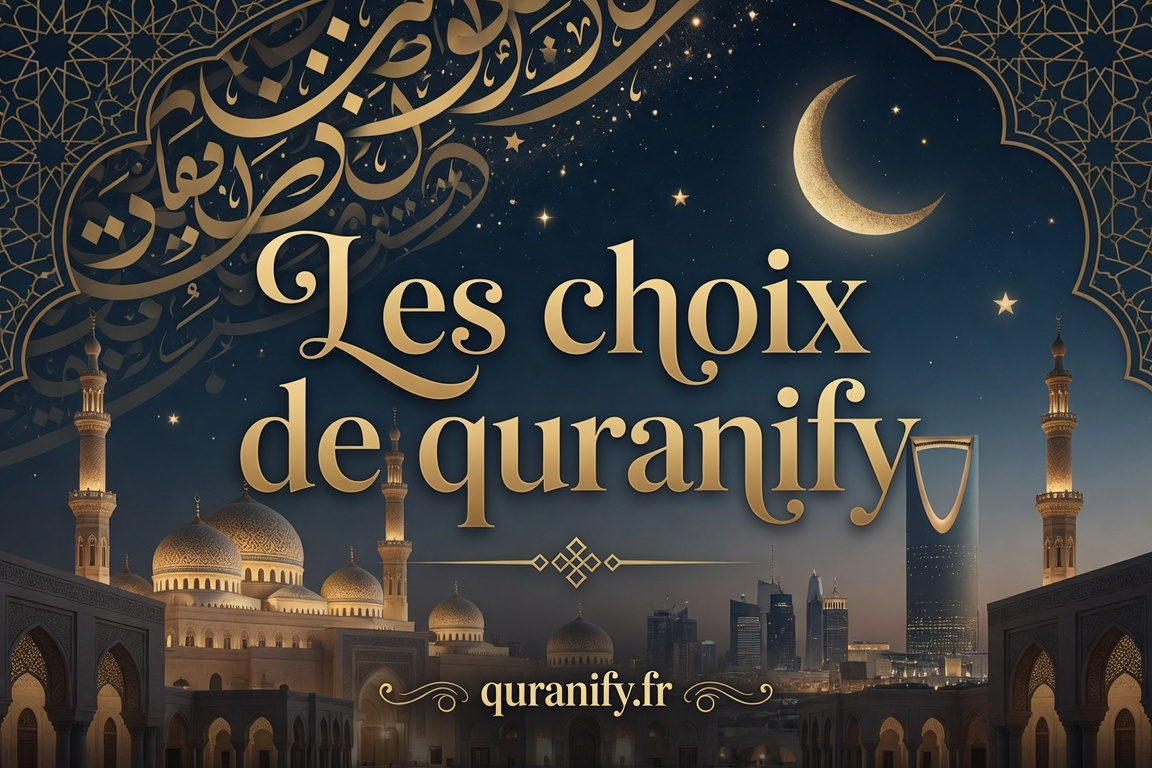
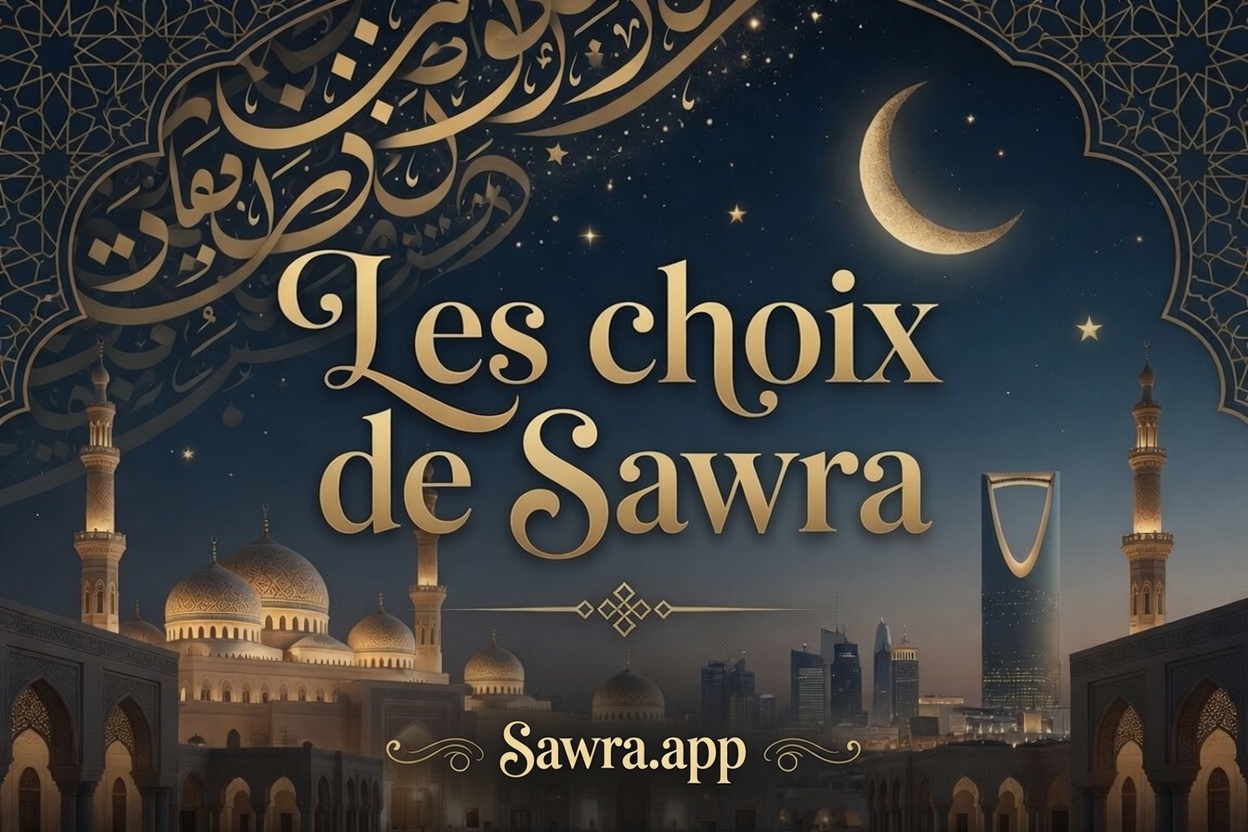
Rebrand en Sawra: UI, SEO, hero, categorie Choix Sawra et icone PWA

diff --git a/src/App.tsx b/src/App.tsx
@@ -335,11 +335,11 @@ const LoadingHome: React.FC<{ progress: number; reciterCount: number }> = ({ pro
         <div className="flex flex-col items-center gap-4">
           <img
             src="/icons/sansfond.png"
-            alt="Quranify"
+            alt="Sawra"
             className="w-32 h-32 object-contain drop-shadow-[0_0_24px_rgba(0,0,0,0.45)]"
           />
           <div>
-            <h1 className="text-3xl font-black tracking-tight text-[#f6f8fb] m-0">QURANIFY</h1>
+            <h1 className="text-3xl font-black tracking-tight text-[#f6f8fb] m-0">SAWRA</h1>
             <p className="text-[11px] tracking-[0.22em] text-[#b4c0ce] font-bold uppercase mt-1">
               Lecteur Coranique Premium
             </p>
@@ -608,7 +608,7 @@ const AppContent: React.FC = () => {
       if (tab) {
         setActiveTab(mapLegacyTab(tab));
       }
-      if (url.protocol === 'quranify:' || url.pathname.includes('/surah')) {
+      if (url.protocol === 'sawra:' || url.protocol === 'quranify:' || url.pathname.includes('/surah')) {
         setActiveTab('listen');
       }
     } catch {
@@ -624,6 +624,7 @@ const AppContent: React.FC = () => {
         rawUrl.includes('tab=surahs') ||
         rawUrl.includes('tab=reciters') ||
         rawUrl.includes('tab=listen') ||
+        rawUrl.includes('sawra://surah') ||
         rawUrl.includes('quranify://surah')
       ) {
         setActiveTab('listen');
@@ -729,7 +730,7 @@ const AppContent: React.FC = () => {
   const dismissAuthPrompt = () => {
     setShowAuthPrompt(false);
     try {
-      sessionStorage.setItem('quranify_auth_prompt_dismissed', '1');
+      sessionStorage.setItem('sawra_auth_prompt_dismissed', '1');
     } catch {
       // ignore
     }
@@ -745,7 +746,10 @@ const AppContent: React.FC = () => {
   useEffect(() => {
     if (authLoading || user || showLoadingHome || authPromptShownRef.current) return;
     try {
-      if (sessionStorage.getItem('quranify_auth_prompt_dismissed') === '1') return;
+      if (
+        sessionStorage.getItem('sawra_auth_prompt_dismissed') === '1' ||
+        sessionStorage.getItem('quranify_auth_prompt_dismissed') === '1'
+      ) return;
     } catch {
       // ignore
     }
@@ -942,7 +946,7 @@ const AppContent: React.FC = () => {
         onConnect={openAuthFromPrompt}
       />
       {/* Brand lives in the floating Navbar; keep an accessible page title */}
-      <h1 className="sr-only">Quranify — Lecteur Coranique Premium</h1>
+      <h1 className="sr-only">Sawra — Lecteur Coranique Premium</h1>
 
       {/* 2. Main Tab Views */}
       <main
@@ -980,18 +984,18 @@ const AppContent: React.FC = () => {
               <div className="relative z-10 flex flex-col gap-5 px-4 py-5 sm:px-6 sm:py-6 md:px-10 md:py-10">
                 <div className="flex items-start justify-between gap-4">
                   <div className="min-w-0 max-w-[16rem] sm:max-w-sm">
-                    <p
-                      className="font-serif text-sm sm:text-lg text-[#f1d4c1]/90 arabic-text leading-none select-none"
-                      dir="rtl"
-                    >
-                      القرآن الكريم
+                    <p className="inline-flex items-center rounded-full border border-[#f0d1bc]/20 bg-[#f0d1bc]/8 px-3 py-1 text-[10px] font-black uppercase tracking-[0.22em] text-[#f1d4c1]/90 select-none">
+                      Sawra Audio
                     </p>
                     <h2 className="mt-2 text-[1.75rem] sm:text-[2.2rem] md:text-[3.4rem] font-black tracking-tight text-white leading-[1.02]">
-                      Une écoute
-                      <span className="block text-[#f1d4c1]">paisible et claire.</span>
+                      Le Coran,
+                      <span className="block text-[#f1d4c1]">simplement.</span>
                     </h2>
                     <p className="mt-3 text-[13px] sm:text-[14px] md:text-[15px] leading-relaxed text-[#d0d9e3]/78">
-                      Reprenez instantanément votre récitation, explorez de belles voix et gardez vos repères sur mobile.
+                      Reprenez votre lecture, trouvez une belle voix et restez concentré sur l'essentiel.
+                    </p>
+                    <p className="mt-3 inline-flex items-center rounded-full border border-[#f0d1bc]/18 bg-[#111d2d]/70 px-3 py-1.5 text-[11px] font-bold text-[#f1d4c1] shadow-[inset_0_1px_0_rgba(255,255,255,0.03)]">
+                      100% gratuit. Sans pub.
                     </p>
                   </div>
 

diff --git a/index.html b/index.html
@@ -6,10 +6,10 @@
     <meta name="theme-color" content="#020617" />
     <meta name="color-scheme" content="dark" />
 
-    <title>Quranify - Lecteur Coranique Premium</title>
-    <meta name="description" content="Quranify est un lecteur coranique mobile-first pour écouter les grands récitateurs du Coran en streaming, gérer vos favoris et reprendre l'écoute facilement." />
-    <meta name="keywords" content="Coran audio, Quran, récitateurs, Quranify, Mishary Al Afasi, Soudais, Maher Al Meaqli, Minshawi, Hussary, streaming coranique" />
-    <meta name="author" content="Quranify" />
+    <title>Sawra - Lecteur Coranique Premium</title>
+    <meta name="description" content="Sawra est un lecteur coranique mobile-first pour écouter les grands récitateurs du Coran en streaming, gérer vos favoris et reprendre l'écoute facilement." />
+    <meta name="keywords" content="Coran audio, Quran, récitateurs, Sawra, Mishary Al Afasi, Soudais, Maher Al Meaqli, Minshawi, Hussary, streaming coranique" />
+    <meta name="author" content="Sawra" />
     <meta name="robots" content="index, follow, max-image-preview:large" />
 
     <link rel="manifest" href="/site.webmanifest" />
@@ -20,24 +20,25 @@
     <link rel="mask-icon" href="/safari-pinned-tab.svg" color="#7a919f" />
     <meta name="apple-mobile-web-app-capable" content="yes" />
     <meta name="apple-mobile-web-app-status-bar-style" content="black-translucent" />
-    <meta name="apple-mobile-web-app-title" content="Quranify" />
+    <meta name="apple-mobile-web-app-title" content="Sawra" />
     <meta name="mobile-web-app-capable" content="yes" />
-    <meta name="application-name" content="Quranify" />
+    <meta name="application-name" content="Sawra" />
     <meta name="msapplication-TileColor" content="#020617" />
     <meta name="msapplication-config" content="/browserconfig.xml" />
 
     <meta property="og:type" content="website" />
-    <meta property="og:site_name" content="Quranify" />
-    <meta property="og:title" content="Quranify - Lecteur Coranique Premium" />
+    <meta property="og:site_name" content="Sawra" />
+    <meta property="og:title" content="Sawra - Lecteur Coranique Premium" />
     <meta property="og:description" content="Écoutez les grands récitateurs du Coran dans une application mobile-first rapide, installable et pensée pour le streaming audio." />
+    <meta property="og:url" content="https://sawra.app" />
     <meta property="og:image" content="/og-image.png" />
     <meta property="og:image:width" content="1200" />
     <meta property="og:image:height" content="630" />
-    <meta property="og:image:alt" content="Quranify, lecteur coranique premium" />
+    <meta property="og:image:alt" content="Sawra, lecteur coranique premium" />
     <meta property="og:locale" content="fr_FR" />
 
     <meta name="twitter:card" content="summary_large_image" />
-    <meta name="twitter:title" content="Quranify - Lecteur Coranique Premium" />
+    <meta name="twitter:title" content="Sawra - Lecteur Coranique Premium" />
     <meta name="twitter:description" content="Application PWA pour écouter les récitateurs du Coran, sauvegarder vos favoris et reprendre l'écoute facilement." />
     <meta name="twitter:image" content="/og-image.png" />
 
@@ -49,7 +50,8 @@
       {
         "@context": "https://schema.org",
         "@type": "SoftwareApplication",
-        "name": "Quranify",
+        "name": "Sawra",
+        "url": "https://sawra.app",
         "applicationCategory": "MultimediaApplication",
         "operatingSystem": "Web, Android, iOS",
         "inLanguage": "fr",
@@ -63,7 +65,7 @@
     </script>
   </head>
   <body class="bg-slate-950">
-    <noscript>Quranify nécessite JavaScript pour charger le lecteur coranique.</noscript>
+    <noscript>Sawra nécessite JavaScript pour charger le lecteur coranique.</noscript>
     <div id="root"></div>
     <script type="module" src="/src/main.tsx"></script>
   </body>

diff --git a/src/components/AboutPanel.tsx b/src/components/AboutPanel.tsx
@@ -81,7 +81,7 @@ export const AboutPanel: React.FC = () => {
     {
       icon: Cloud,
       title: 'Compte GoMuslimLife',
-      body: 'Un seul compte pour Quranify et GoMuslimLife.com : favoris, reprise d’écoute et préférences synchronisés.',
+      body: 'Un seul compte pour Sawra et GoMuslimLife.com : favoris, reprise d’écoute et préférences synchronisés.',
     },
     {
       icon: Smartphone,
@@ -110,7 +110,7 @@ export const AboutPanel: React.FC = () => {
             <div>
               <div className="flex items-center gap-2">
                 <Compass className="w-4 h-4 text-[#f0d1bc]" />
-                <h2 className="text-xl font-bold text-[#f6f8fb]">À propos de Quranify</h2>
+                <h2 className="text-xl font-bold text-[#f6f8fb]">À propos de Sawra</h2>
               </div>
               <p className="mt-1 text-sm leading-relaxed text-[#b4c0ce]">
                 Lecteur coranique simple et rapide — web &amp; bientôt en app.
@@ -227,7 +227,7 @@ export const AboutPanel: React.FC = () => {
       </div>
 
       <div className="flex items-center justify-between text-[11px] text-[#95a7ba] gap-3 flex-wrap px-1">
-        <span>Quranify © {new Date().getFullYear()} · v{APP_VERSION}</span>
+        <span>Sawra © {new Date().getFullYear()} · v{APP_VERSION}</span>
         <a
           href="https://sofianeweb.fr"
           target="_blank"

diff --git a/public/offline.html b/public/offline.html
@@ -4,7 +4,7 @@
     <meta charset="UTF-8" />
     <meta name="viewport" content="width=device-width, initial-scale=1.0, viewport-fit=cover" />
     <meta name="theme-color" content="#020617" />
-    <title>Quranify - Hors ligne</title>
+    <title>Sawra - Hors ligne</title>
     <style>
       :root {
         color-scheme: dark;
@@ -55,9 +55,9 @@
   </head>
   <body>
     <main>
-      <img src="/icons/android-chrome-192x192.png" alt="Quranify" />
+      <img src="/icons/android-chrome-192x192.png" alt="Sawra" />
       <h1>Mode hors ligne</h1>
-      <p>Quranify est installé, mais le catalogue et le streaming audio ont besoin d'une connexion pour se synchroniser.</p>
+      <p>Sawra est installé, mais le catalogue et le streaming audio ont besoin d'une connexion pour se synchroniser.</p>
       <a href="/">Réessayer</a>
     </main>
   </body>

diff --git a/src/components/Navbar.tsx b/src/components/Navbar.tsx
@@ -120,7 +120,7 @@ export const Navbar: React.FC<NavbarProps> = ({
             <button
               type="button"
               onClick={() => setActiveTab('home')}
-              aria-label="Quranify — Accueil"
+              aria-label="Sawra — Accueil"
               className="group flex shrink-0 items-center gap-2.5 rounded-xl pl-0.5 pr-3 py-1 hover:bg-[#162538]/70 transition-colors tap-feedback"
             >
               <img
@@ -130,7 +130,7 @@ export const Navbar: React.FC<NavbarProps> = ({
                 draggable={false}
               />
               <span className="text-[15px] font-bold tracking-tight text-[#f6f8fb]">
-                Quranify
+                Sawra
               </span>
             </button>
             <span className="h-6 w-px shrink-0 bg-[#46607b]/45" aria-hidden />

diff --git a/src/data/reciterCategories.ts b/src/data/reciterCategories.ts
@@ -2,7 +2,7 @@
 import { Landmark, MoonStar, Building2, Sparkles } from 'lucide-react';
 import { CURATED_RECITER_ID_SET } from './curatedReciters';
 
-export type ReciterCategoryId = 'makkah' | 'madinah' | 'riyadh' | 'quranify';
+export type ReciterCategoryId = 'makkah' | 'madinah' | 'riyadh' | 'sawra';
 
 export interface ReciterCategory {
   id: ReciterCategoryId;
@@ -98,8 +98,8 @@ export const RECITER_CATEGORIES: ReciterCategory[] = [
     ]),
   },
   {
-    id: 'quranify',
-    title: 'Choix Quranify',
+    id: 'sawra',
+    title: 'Choix Sawra',
     subtitle: 'Sélection éditoriale',
     arabicLabel: 'مختار',
     image: '/img/choix.jpg',

diff --git a/src/components/ListenReciterHeader.tsx b/src/components/ListenReciterHeader.tsx
@@ -20,11 +20,11 @@ interface ListenReciterHeaderProps {
 
 function getReciterBadge(reciterId: number, moshafName?: string): string {
   const location = RECITER_CATEGORIES.find(
-    (c) => c.id !== 'quranify' && c.reciterIds.includes(reciterId),
+    (c) => c.id !== 'sawra' && c.reciterIds.includes(reciterId),
   );
   if (location) return location.title;
   const editorial = RECITER_CATEGORIES.find(
-    (c) => c.id === 'quranify' && c.reciterIds.includes(reciterId),
+    (c) => c.id === 'sawra' && c.reciterIds.includes(reciterId),
   );
   if (editorial) return editorial.title;
   return moshafName || 'Récitation';

diff --git a/src/data/curatedReciters.ts b/src/data/curatedReciters.ts
@@ -1,6 +1,6 @@
 /**
  * Curated catalogue (~30 récitateurs) — mp3quran IDs.
- * Quranify picks are always included.
+ * Sawra picks are always included.
  * Mujawwad variants stay as moshafs on the same reciter (not separate entries).
  */
 export const CURATED_RECITER_IDS = [
@@ -40,7 +40,7 @@ export const CURATED_RECITER_IDS = [
   272, // Okasha Kameny
   84, // Fawaz Alkabi
 
-  // Choix Quranify (compléments)
+  // Choix Sawra (compléments)
   107, // Mohamed El-Louhaïdan
   245, // Mansour Al-Salemi
   254, // Badr Al-Turki

diff --git a/src/components/AuthPromptModal.tsx b/src/components/AuthPromptModal.tsx
@@ -43,7 +43,7 @@ export const AuthPromptModal: React.FC<AuthPromptModalProps> = ({
               </span>
               <div className="min-w-0">
                 <p className="text-[10px] font-black uppercase tracking-widest text-[#f0d1bc]">
-                  Compte Quranify
+                  Compte Sawra
                 </p>
                 <h2 id="auth-prompt-title" className="text-lg font-black text-[#f6f8fb] leading-tight">
                   Gardez vos favoris et votre lecture

diff --git a/src/components/AccountPanel.tsx b/src/components/AccountPanel.tsx
@@ -63,7 +63,7 @@ export const AccountPanel: React.FC = () => {
                   Connecté
                 </p>
                 <h3 className="mt-1 text-lg font-black text-white truncate">
-                  {profile?.display_name || 'Compte Quranify'}
+                  {profile?.display_name || 'Compte Sawra'}
                 </h3>
                 <p className="mt-0.5 text-sm text-[#b4c0ce] truncate">{user.email}</p>
               </div>

diff --git a/capacitor.config.ts b/capacitor.config.ts
@@ -2,7 +2,7 @@ import type { CapacitorConfig } from '@capacitor/cli';
 
 const config: CapacitorConfig = {
   appId: 'com.quranify.app',
-  appName: 'Quranify',
+  appName: 'Sawra',
   webDir: 'dist',
   server: {
     androidScheme: 'https',
